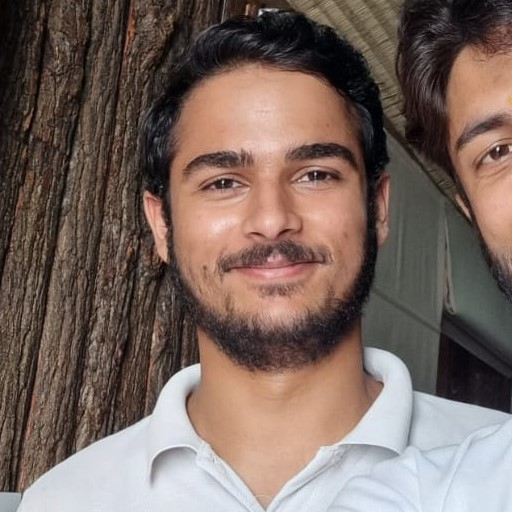
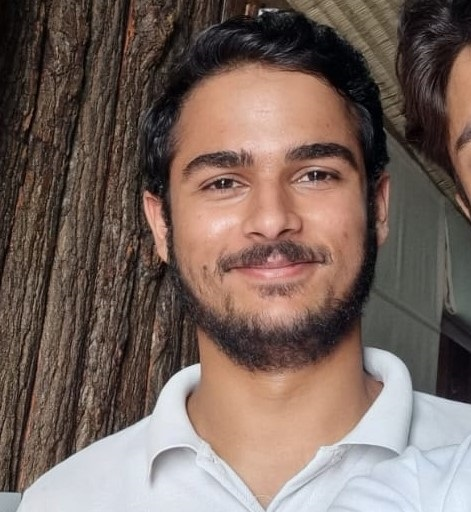
Final Touch

diff --git a/index.htm b/index.htm
@@ -38,7 +38,7 @@
   <!--about-->
   <section id="about">
     <h1>Who I am</h1>
-    <img src="" alt="">
+    <img class="about" src="img/about.jpeg" alt="Picture of happy Harsh">
     <p>My name is Harsh Kumar Sharma. I'm an Btech student at AKGEC Information Technology Department. I was born and raised in Meerut.</p>
     <p>I love to do <strong>Seva</strong> and <strong>Sadhana</strong>.
     I believe <strong>Meditation</strong> can cure the whole world</p>
@@ -46,13 +46,15 @@
 
     <!-- Footer -->
     <footer id="contact">
-        <a href="mailto:kumarsharmaharsh2004@gmail.com" class="footer__link">hello@harsh.dev</a>
-        <ul class="social-list">
-            <li class="social-list__item"><a class="social-list__link" href="https://facebook.com">a</a></li>
-            <li class="social-list__item"><a class="social-list__link" href="http://instagram.com">b</a></li>
-            <li class="social-list__item"><a class="social-list__link" href="https://twitter.com">c</a></li>
-            <li class="social-list__item"><a class="social-list__link" href="https://github.com">d</a></li>
+      <div>
+        <h1><a href="mailto:kumarsharmaharsh2004@gmail.com" class="footer__link">hello@harsh.dev</a></h1>
+        <ul class="social-list" type="none">
+            <li class="social-list__item"><a class="social-list__link" href="https://facebook.com"><img src="img/facebook.jpg" alt="Facebook"></a></li>
+            <li class="social-list__item"><a class="social-list__link" href="http://instagram.com"><img src="img/instagram.png" alt="Instagram"></a></li>
+            <li class="social-list__item"><a class="social-list__link" href="https://twitter.com"><img src="img/twitter.png" alt="Twitter"></a></li>
+            <li class="social-list__item"><a class="social-list__link" href="https://github.com"><img src="img/github.png" alt="Github"></a></li>
         </ul>
+      </div>
     </footer>
   </footer>
   <body></body>

diff --git a/style.css b/style.css
@@ -49,7 +49,7 @@ nav{
     background-color: #303030;
     padding: 50px;
     display: flex;
-    justify-content: flex-start;
+    /* justify-content: flex-start; */
     flex-direction: column;
     align-items: center;
 }
@@ -66,13 +66,29 @@ nav{
 #contact{
     background-color: #303030;
     padding: 50px;
+    justify-content: center;
 }
 
 #about{
     padding: 50px;
 }
+.about{
+    width:50%;
+    align-items: center;
+    border-radius: 20%;
+}
+.footer__link{
+    color: white;
+    text-decoration: none;
+    justify-content:center;
+}
 
-@media (max-width:720px){
+.social-list__link {
+    color: white;
+    text-decoration: none;
+}
+
+@media only screen and (max-width:1080px){
     #intro{
         flex-direction: column;
     }
